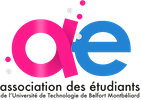
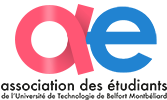
Patch to fix the pinktober patch

diff --git a/core/static/core/style.scss b/core/static/core/style.scss
@@ -25,8 +25,11 @@ $black-color: hsl(0, 0%, 17%);
 
 $faceblue: hsl(221, 44%, 41%);
 $twitblue: hsl(206, 82%, 63%);
-$pinktober: hsl(313, 88%, 76%);
-$pinktober-secondary: hsl(294, 87%, 15%);
+$pinktober: #ff5674;
+$pinktober-secondary: #8a2536;
+$pinktober-primary-text: white;
+$pinktober-bar-closed: $pinktober-secondary;
+$pinktober-bar-opened: #388E3C;
 
 $shadow-color: rgb(223, 223, 223);
 
@@ -160,19 +163,25 @@ header {
   display: flex;
   box-shadow: $shadow-color 0px 0px 15px;
   border-top: none;
-  background-color: $pinktober;
+  //background-color: $primary-neutral-dark-color;
   border-radius: 0px 0px 10px 10px;
+
+  // PINKTOBER
+  background-color: $pinktober;
   border-bottom: 5px solid $pinktober-secondary;
+  margin-bottom: -5px;
+  border-radius: 0 0 5px 7px;
 
   #header_logo {
     background-color: $white-color;
     padding: 0.2em;
     border-bottom: 5px solid $shadow-color;
-    border-radius: 0px 0px 0px 9px;
+    border-radius: 0px 0px 0px 5px;
     margin-bottom: -5px;
 
     a {
-      display: inline-block;
+      display: flex;
+      align-items: center;
       margin: 0px;
       width: 100%;
       height: 100%;
@@ -195,6 +204,7 @@ header {
       width: 100%;
       label {
         display: inline;
+        color: $pinktober-primary-text;
       }
     }
     a {
@@ -215,7 +225,8 @@ header {
       font-weight: bold;
       color: $white-color;
       &:hover {
-        color: $pinktober-secondary;
+        color: $pinktober-primary-text;
+        text-decoration: underline;
       }
     }
 
@@ -223,6 +234,14 @@ header {
       flex: initial;
       list-style-type: none;
       margin: 0.2em 0.2em;
+
+      & .fa.fa-times {
+        color: $pinktober-bar-closed !important;
+      }
+
+      & .fa.fa-check {
+        color: $pinktober-bar-opened !important;
+      }
     }
 
     #header_search {
